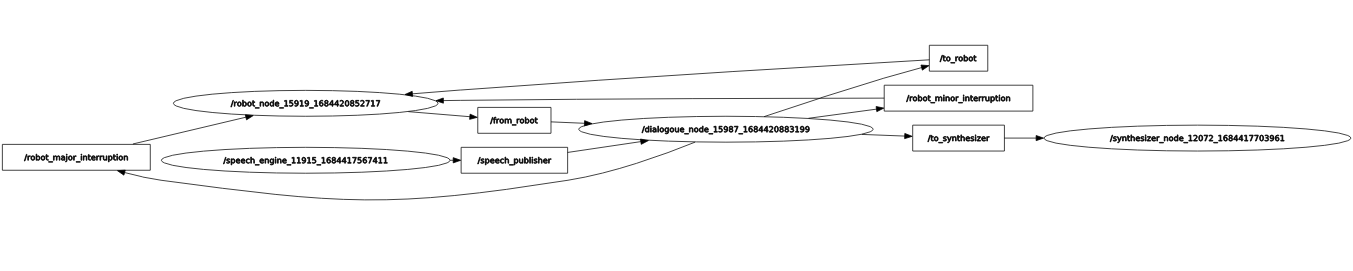
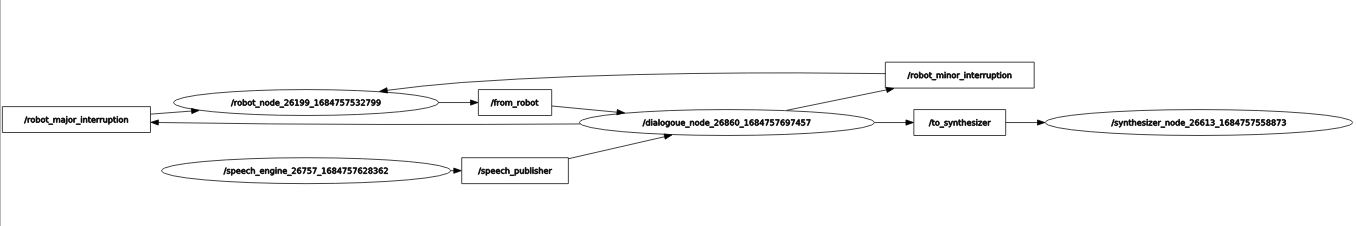
to_robot topic removed. Use Minor/Major interruption instead

diff --git a/src/robot/src/robot.py b/src/robot/src/robot.py
@@ -9,23 +9,19 @@ class robot:
     def __init__(self) -> None:
         self.pub = rospy.Publisher('from_robot', message_from_robot, queue_size=10)
         pass
-    def callback(self,data):
-        print(data)
-        print(data.command)
-        if data.command == "stop":
-            print("starting the stopping")
-            self.pub.publish("stopping", False)
-            rospy.sleep(10)
-            self.pub.publish("Idle", False) 
-            print("stopped")
-
-        #rospy.loginfo(rospy.get_caller_id() + "I heard %s %s %i %f ", data.text,data.command,data.age,data.confidence)
+ 
         
     def callback_minor(self,data):
         rospy.loginfo(f"Minor interruption of type {data.command}")
         if data.command == "continue":
             self.pub.publish("working", True)
             #actualrobot.do_something()
+        if data.command == "stop":
+            print("starting the stopping")
+            self.pub.publish("stopping", False)
+            rospy.sleep(10)
+            self.pub.publish("Idle", False) 
+            print("stopped")
 
 
     def callback_major(self,data):
@@ -38,7 +34,7 @@ class robot:
 
     def listen(self):
         rospy.init_node('robot_node', anonymous=True)
-        self.sub = rospy.Subscriber("to_robot", message_to_robot, self.callback)
+        
         self.sub = rospy.Subscriber("robot_minor_interruption", message_to_robot, self.callback_minor)
         self.sub = rospy.Subscriber("robot_major_interruption", message_to_robot, self.callback_major)
 

diff --git a/src/speech_processing/src/dialogue_system_node.py b/src/speech_processing/src/dialogue_system_node.py
@@ -10,7 +10,7 @@ import select
 
 class dialogue_node_class:
     def __init__(self) -> None:
-        self.pub = rospy.Publisher('to_robot', message_to_robot, queue_size=10)
+        #self.pub = rospy.Publisher('to_robot', message_to_robot, queue_size=10)
         self.pub_interrupt_minor = rospy.Publisher('robot_minor_interruption', message_to_robot, queue_size=10)
         self.pub_interrupt_major = rospy.Publisher('robot_major_interruption', message_to_robot, queue_size=10)
 
@@ -28,7 +28,8 @@ class dialogue_node_class:
         
         response = self.dia.process_speech_input(data.text,data.command,data.age, data.confidence)
         if response != None:
-            self.pub.publish(*response)
+            #self.pub.publish(*response)
+            self.pub_interrupt_minor.publish(*response)
     def callback_from_robot(self,data):
         response_to_synthesizer = self.dia.process_robot_input(robot_interruptable=data.interruptable, robot_state= data.step)
         self.pub_to_synthesizer.publish(response_to_synthesizer)
